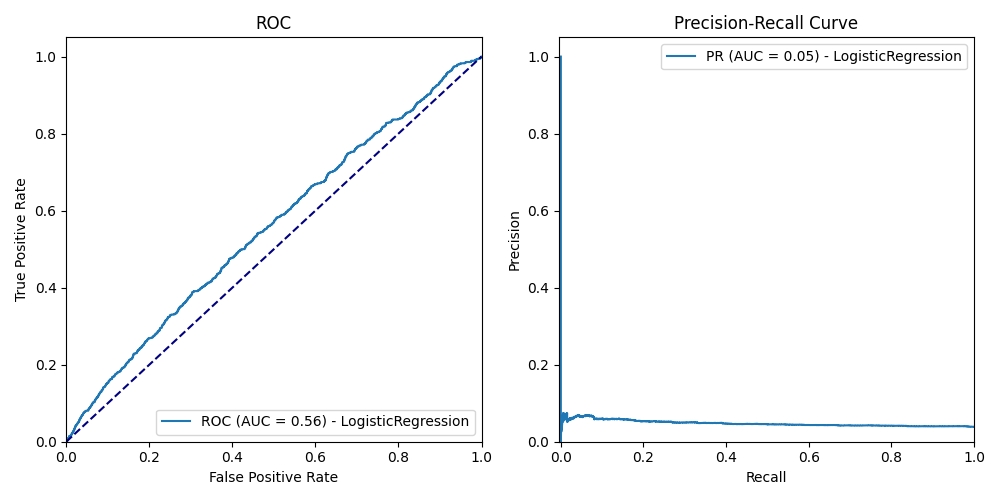
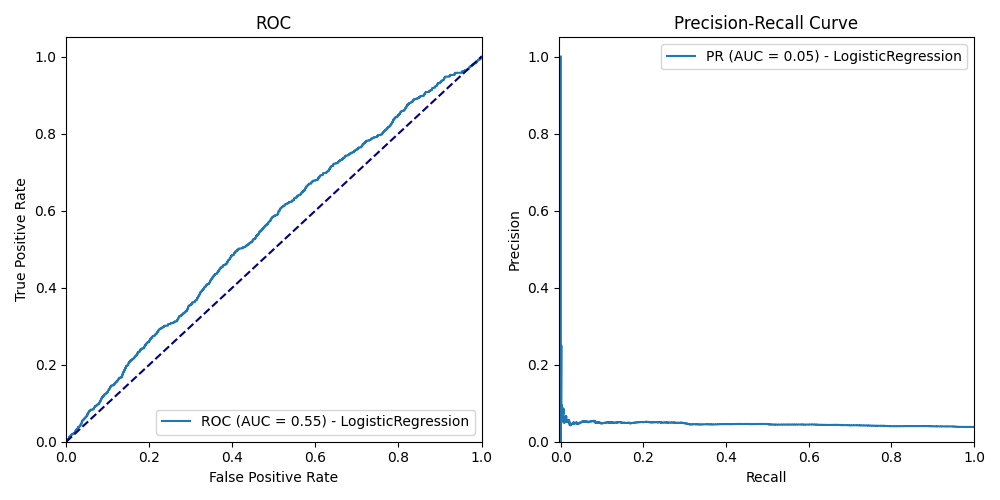
Change target generation strategy

diff --git a/src/feature_computation.py b/src/feature_computation.py
@@ -90,14 +90,22 @@ def feature_computation(
     # final_features_train = features_train.groupby('customer_id').tail(1)
     # final_features_test = features_test.groupby('customer_id').tail(1)
 
-    # Now we need to join it with customer_id from features df
-    # Check: i'm using an inner join because there are some edge cases to clarify (e.g. customer_id = 1322985)
+    # As there are customer that leave between the month we use for training and the target month
+    # We have to join the features and the targets and drop those that don't have target
     features_and_target_train = train_df_features.merge(
-        train_df_target, on="customer_id", how="inner"
+        train_df_target, on="customer_id", how="left"
     )
     features_and_target_test = test_df_features.merge(
-        test_df_target, on="customer_id", how="inner"
+        test_df_target, on="customer_id", how="left"
     )
+
+    features_and_target_train = features_and_target_train[
+        features_and_target_train[target_col[0]].notna()
+    ]
+
+    features_and_target_test = features_and_target_test[
+        features_and_target_test[target_col[0]].notna()
+    ]
 
     # Split train and test features + target (squeeze into 1D array)
     features = features_and_target_train.drop(
@@ -212,10 +220,31 @@ def compute_target(
     Returns:
         DataFrame: Pandas DataFrame with the customer_id and the target computed.
     """
-    target_df = df[df["date"] == target_month][["customer_id"] + target_col]
+
+    drop_churn_between_month = target_month + pd.DateOffset(months=-1)
+
+    target_df = df[
+        (df["date"] == target_month) | (df["date"] == drop_churn_between_month)
+    ][["customer_id"] + target_col + ["date"]]
 
     for col in target_col:
         target_df[col].fillna(0, inplace=True)
-        target_df[col] = np.where(target_df[col] > 0, 1, 0)
+        target_df[col] = np.where(
+            ((target_df[col] > 0) & (target_df["date"] == target_month)),
+            1,
+            target_df[col],
+        )
+        target_df[col] = np.where(
+            ((target_df[col] > 0) & (target_df["date"] == drop_churn_between_month)),
+            2,
+            target_df[col],
+        )
+
+    target_df = target_df[
+        (target_df["NUM_DAYS_LINE_TYPE_FIXE_POST_DEA"] != 2)
+        & (target_df["date"] != drop_churn_between_month)
+    ][["customer_id"] + target_col]
+
+    target_df[target_col] = target_df[target_col].astype("int")
 
     return target_df
